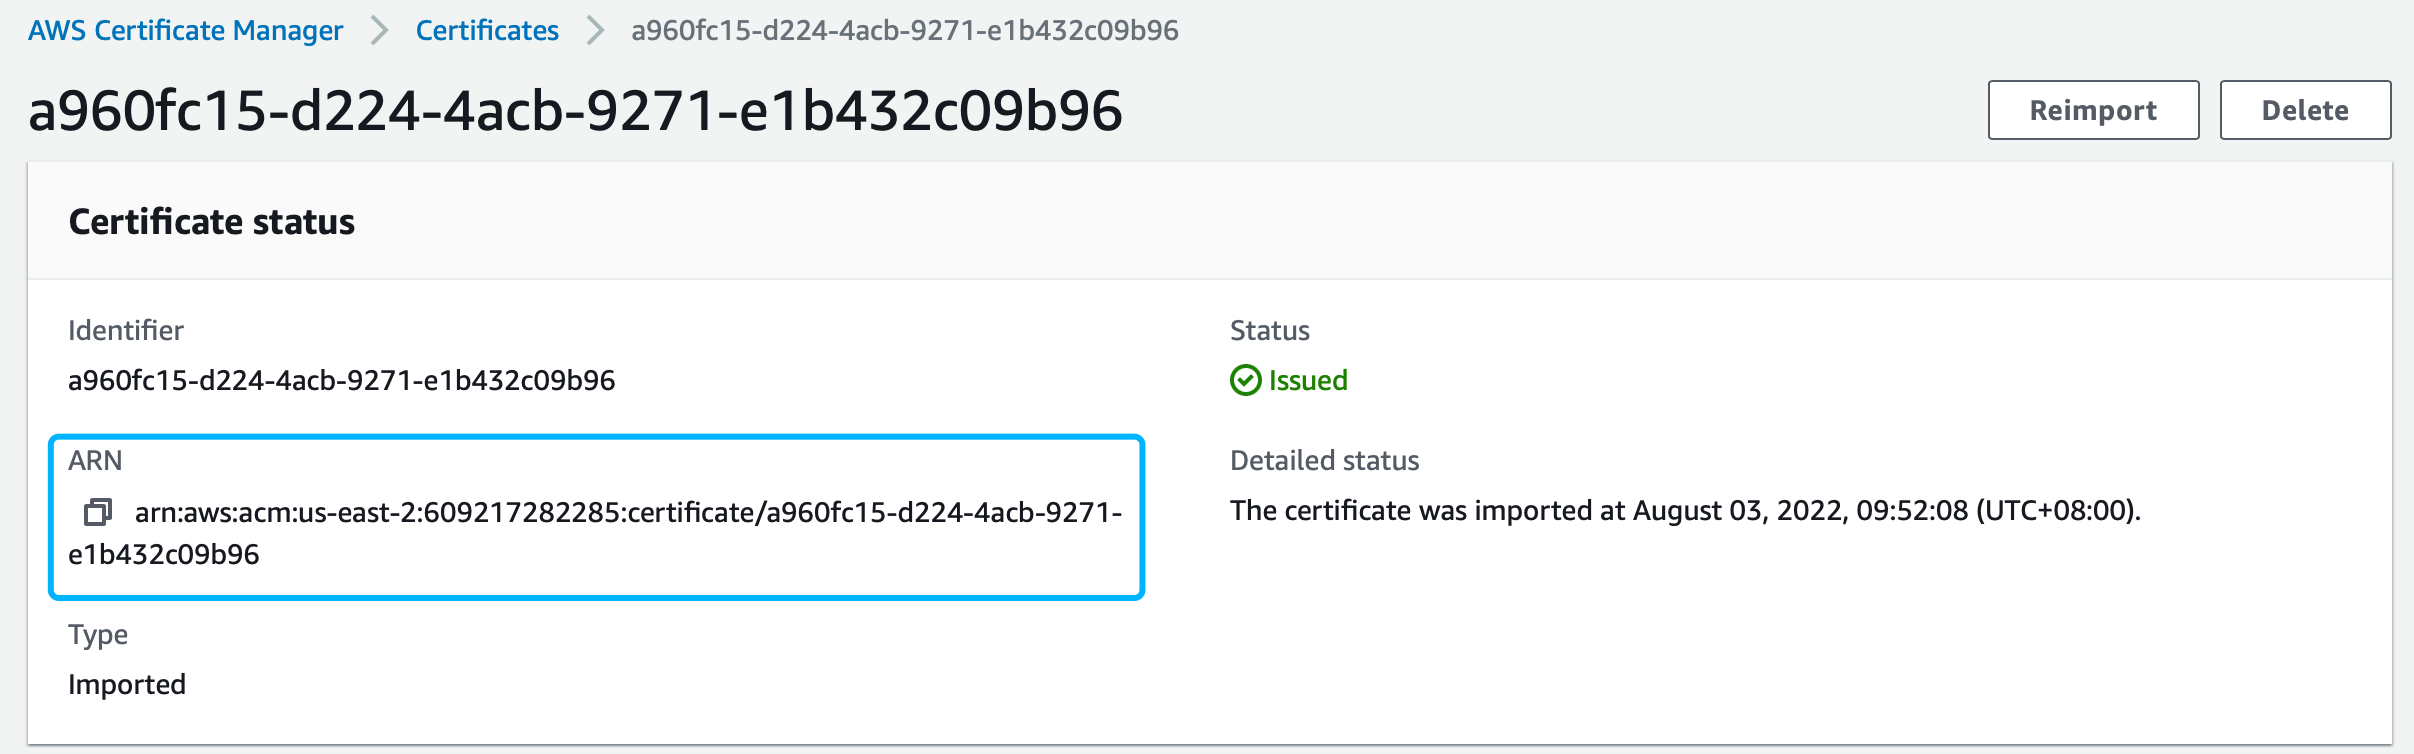
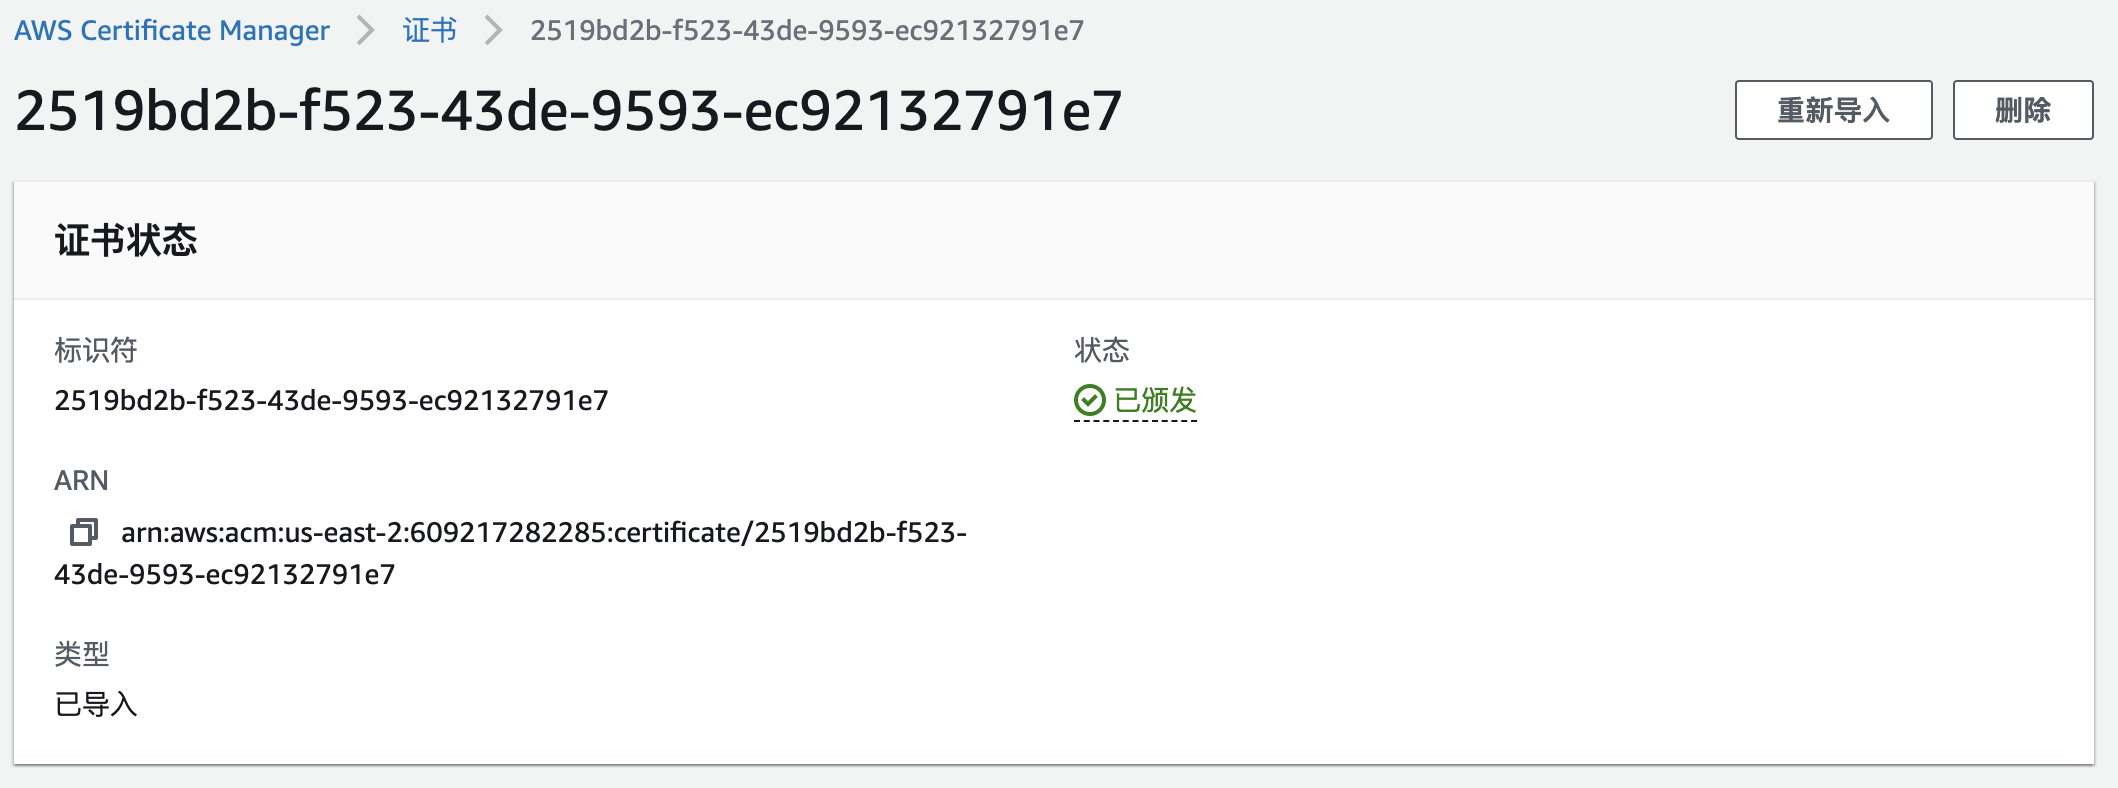
docs: add aws eks chinese doc

diff --git a/docs/zh_CN/deployment/on-aws-eks.md b/docs/zh_CN/deployment/on-aws-eks.md
@@ -1,0 +1,151 @@
+# 在 Amazon EKS 中部署 EMQX
+
+Amazon EKS（Elastic Kubernetes Service）是一种托管的 Kubernetes 服务，可让您轻松部署、管理和扩展容器化应用程序。EKS 提供了 Kubernetes 控制平面和节点组，自动处理节点替换、升级和修补。它支持 AWS 服务，如 Load Balancers、RDS 和 IAM，并与其他 Kubernetes 生态系统工具无缝集成。
+
+## 前提条件
+
+在开始之前，您需要准备以下内容：
+
+- Amazon EKS 集群，详情请参见：[开始使用 Amazon EKS](https://docs.aws.amazon.com/zh_cn/eks/latest/userguide/getting-started.html)
+
+- 负载均衡器，详情请参见：[负载均衡器介绍](https://docs.aws.amazon.com/zh_cn/eks/latest/userguide/network-load-balancing.html)
+
+- 存储类，详情请参见：[存储类](https://docs.aws.amazon.com/zh_cn/eks/latest/userguide/storage-classes.html)
+
+
+## 配置持久化存储
+
+EMQX 自定义资源使用 StoreClass 来保存 EMQX 运行时的状态。在开始之前，需要准备好 StoreClass。以下是使用 `ebs-sc` 配置 EMQX 自定义资源的示例。
+
+:::tip
+根据您想要部署的 EMQX 版本，可以选择相应的 APIVersion。有关具体的兼容性关系，请参阅 [EMQX 兼容性](../README.md)
+:::
+
+:::: tabs type:card
+::: tab v2alpha1
+
+```yaml
+apiVersion: apps.emqx.io/v2alpha1
+kind: EMQX
+metadata:
+  name: emqx
+spec:
+  image: emqx:5.0
+  coreTemplate:
+    spec:
+      volumeClaimTemplates:
+        storageClassName: ebs-sc
+        resources:
+          requests:
+            storage: 20Mi
+        accessModes:
+        - ReadWriteOnce
+```
+:::
+::: tab v1beta4
+
+```yaml
+apiVersion: apps.emqx.io/v1beta4
+kind: EmqxEnterprise
+metadata:
+  name: emqx-ee
+spec:
+  persistent:
+    spec:
+      storageClassName: ebs-sc
+      resources:
+        requests:
+          storage: 20Mi
+      accessModes:
+        - ReadWriteOnce
+  template:
+    spec:
+      emqxContainer:
+        image:
+          repository: emqx/emqx-ee
+          version: 4.4.14
+```
+:::
+::::
+
+## 访问 EMQX 集群
+
+在公共云提供商中，您可以使用 LoadBalancer 来访问 EMQX 集群。详情请参考：[Service Annotations](https://kubernetes-sigs.github.io/aws-load-balancer-controller/v2.4/guide/service/annotations/)
+
+修改 EMQX 自定义资源的配置，添加相应的注释，并将 Service 类型设置为负载均衡器，如下所示：
+
+:::: tabs type:card
+::: tab v2alpha1
+
+```yaml
+apiVersion: apps.emqx.io/v2alpha1
+kind: EMQX
+metadata:
+  name: emqx
+  annotations:
+    service.beta.kubernetes.io/aws-load-balancer-type: "external"
+    service.beta.kubernetes.io/aws-load-balancer-nlb-target-type: "ip"
+    service.beta.kubernetes.io/aws-load-balancer-scheme: internet-facing
+    service.beta.kubernetes.io/aws-load-balancer-attributes: load_balancing.cross_zone.enabled=true
+    service.beta.kubernetes.io/aws-load-balancer-target-group-attributes: preserve_client_ip.enabled=true
+    service.beta.kubernetes.io/aws-load-balancer-attributes: deletion_protection.enabled=true
+#   service.beta.kubernetes.io/aws-load-balancer-subnets: subnet-xxx1,subnet-xxx2
+spec:
+  image: emqx:5.0
+  imagePullPolicy: IfNotPresent
+  listenersServiceTemplate:
+    spec:
+      type: LoadBalancer
+```
+:::
+::: tab v1beta4
+
+```yaml
+apiVersion: apps.emqx.io/v1beta4
+kind: EmqxEnterprise
+metadata:
+  name: emqx-ee
+  annotations:
+    service.beta.kubernetes.io/aws-load-balancer-type: "external"
+    service.beta.kubernetes.io/aws-load-balancer-nlb-target-type: "ip"
+    service.beta.kubernetes.io/aws-load-balancer-scheme: internet-facing
+    service.beta.kubernetes.io/aws-load-balancer-attributes: load_balancing.cross_zone.enabled=true
+    service.beta.kubernetes.io/aws-load-balancer-target-group-attributes: preserve_client_ip.enabled=true
+    service.beta.kubernetes.io/aws-load-balancer-attributes: deletion_protection.enabled=true
+spec:
+  template:
+    spec:
+      emqxContainer:
+        image:
+          repository: emqx/emqx-ee
+          version: 4.4.14
+  serviceTemplate:
+    spec:
+      type: LoadBalancer
+```
+:::
+::::
+
+
+## TLS 终结
+
+在 Amazon EKS 中，您可以使用 NLB 进行 TLS 终结，可以按照以下步骤进行操作：
+
+
+1. 在 [AWS Certificate Manager](https://aws.amazon.com/cn/certificate-manager/?nc1=h_ls) 控制台中导入相关证书，然后通过单击证书 ID 进入详细信息页面，然后复制 ARN，如下图所示：
+
+:::tip
+证书和密钥的导入格式，请参考[官方文档](https://docs.aws.amazon.com/zh_cn/acm/latest/userguide/import-certificate-format.html)
+:::
+
+![](./assets/cert.png)
+
+2. 在 EMQX 自定义资源的元数据中添加如下注释：
+
+    ```yaml
+    service.beta.kubernetes.io/aws-load-balancer-ssl-cert: arn:aws:acm:us-east-2:609217282285:certificate/2519bd2b-f523-43de-9593-ec92132791e7 
+    service.beta.kubernetes.io/aws-load-balancer-backend-protocol: tcp
+    service.beta.kubernetes.io/aws-load-balancer-ssl-ports: 1883,mqtt-tls
+    ```
+    
+    > `service.beta.kubernetes.io/aws-load-balancer-ssl-cert` 的值是我们在第一步复制的 ARN 信息。

diff --git a/docs/zh_CN/deployment/overview.md b/docs/zh_CN/deployment/overview.md
@@ -5,11 +5,12 @@
 - [在阿里云中部署 EMQX (AKS)](./on-alibaba-cloud.md)
 - [在华为云中部署 EMQX (CCE)](./on-huawei-cloud.md)
 - [在腾讯云中部署 EMQX (TKE)](./on-tencent-cloud.md)
+- [在 Amazon EKS 中部署 EMQX](./on-aws-eks.md)
 
 本章将涵盖以下主题：
 
 - 为在公共云服务上部署 EMQX 准备环境
-- 在阿里云 AKS、华为云 CCE 和腾讯云 TKE 上创建 Kubernetes 集群
+- 在阿里云 AKS，华为云 CCE，腾讯云 TKE 和 AWS EKS 上创建 Kubernetes 集群
 - 创建 EMQX 自定义资源部署文件
 - 在 Kubernetes 集群上部署 EMQX
 - 为 EMQX 集群配置持久化
